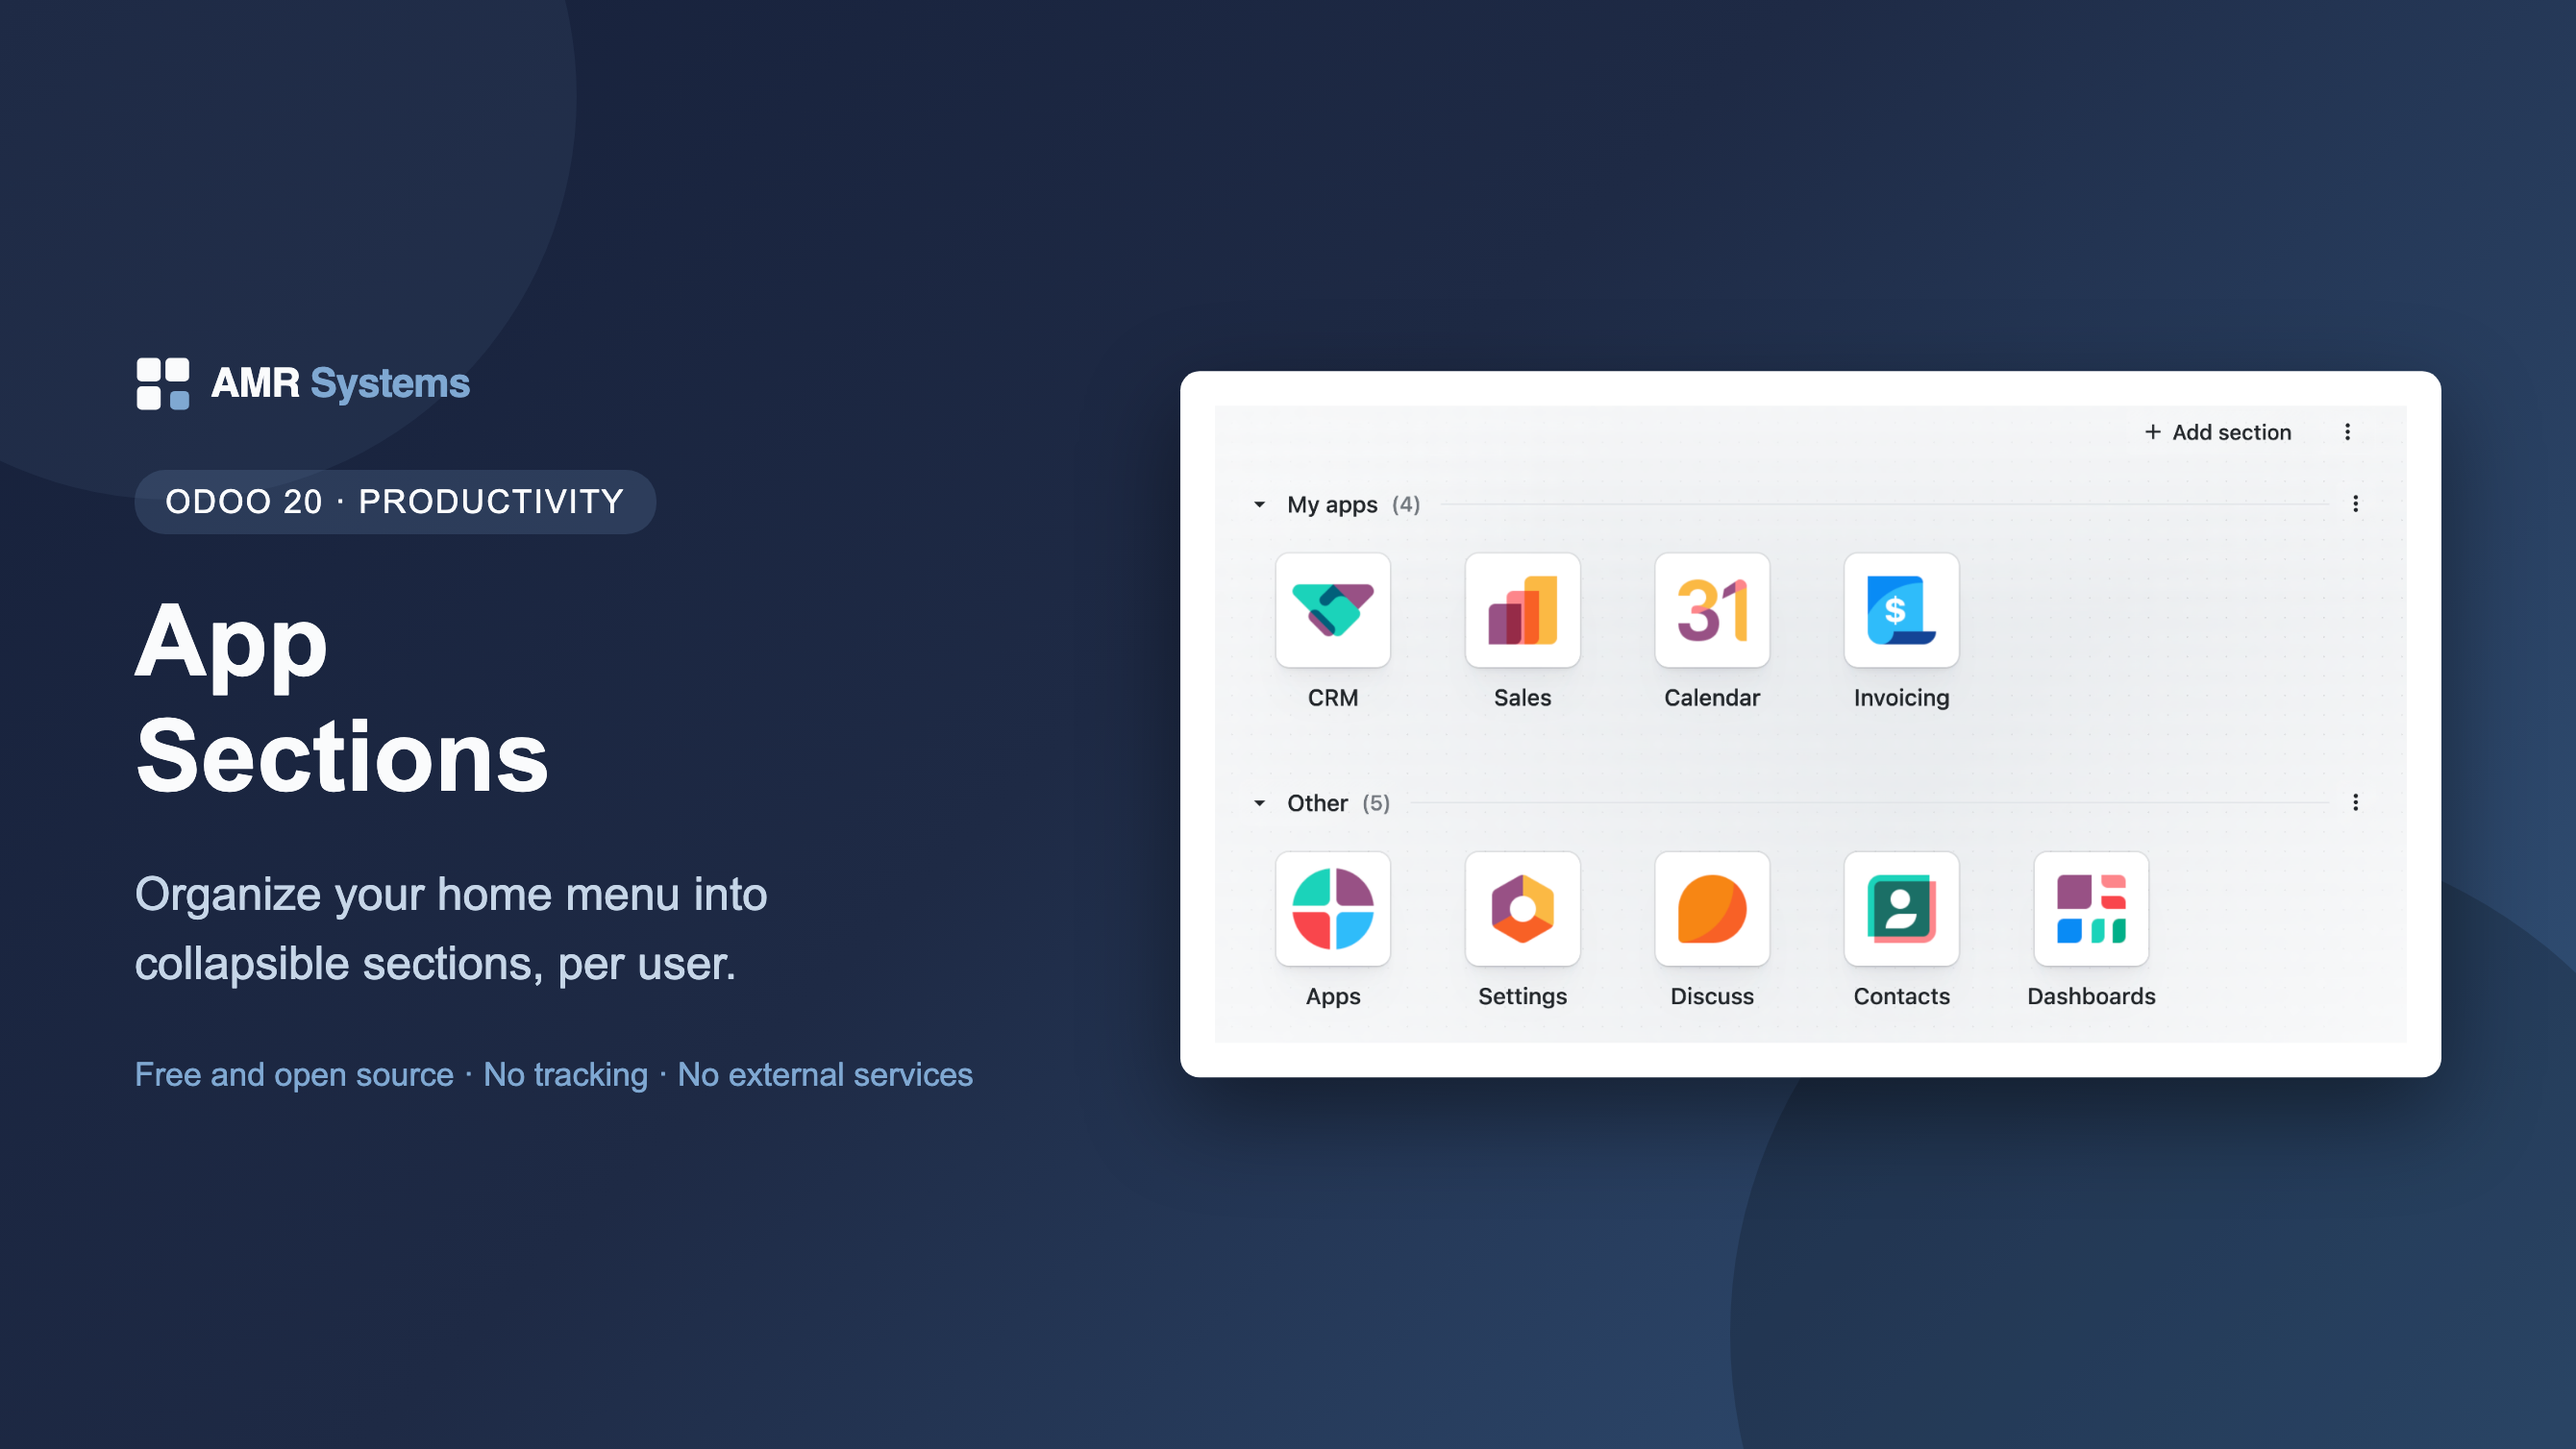
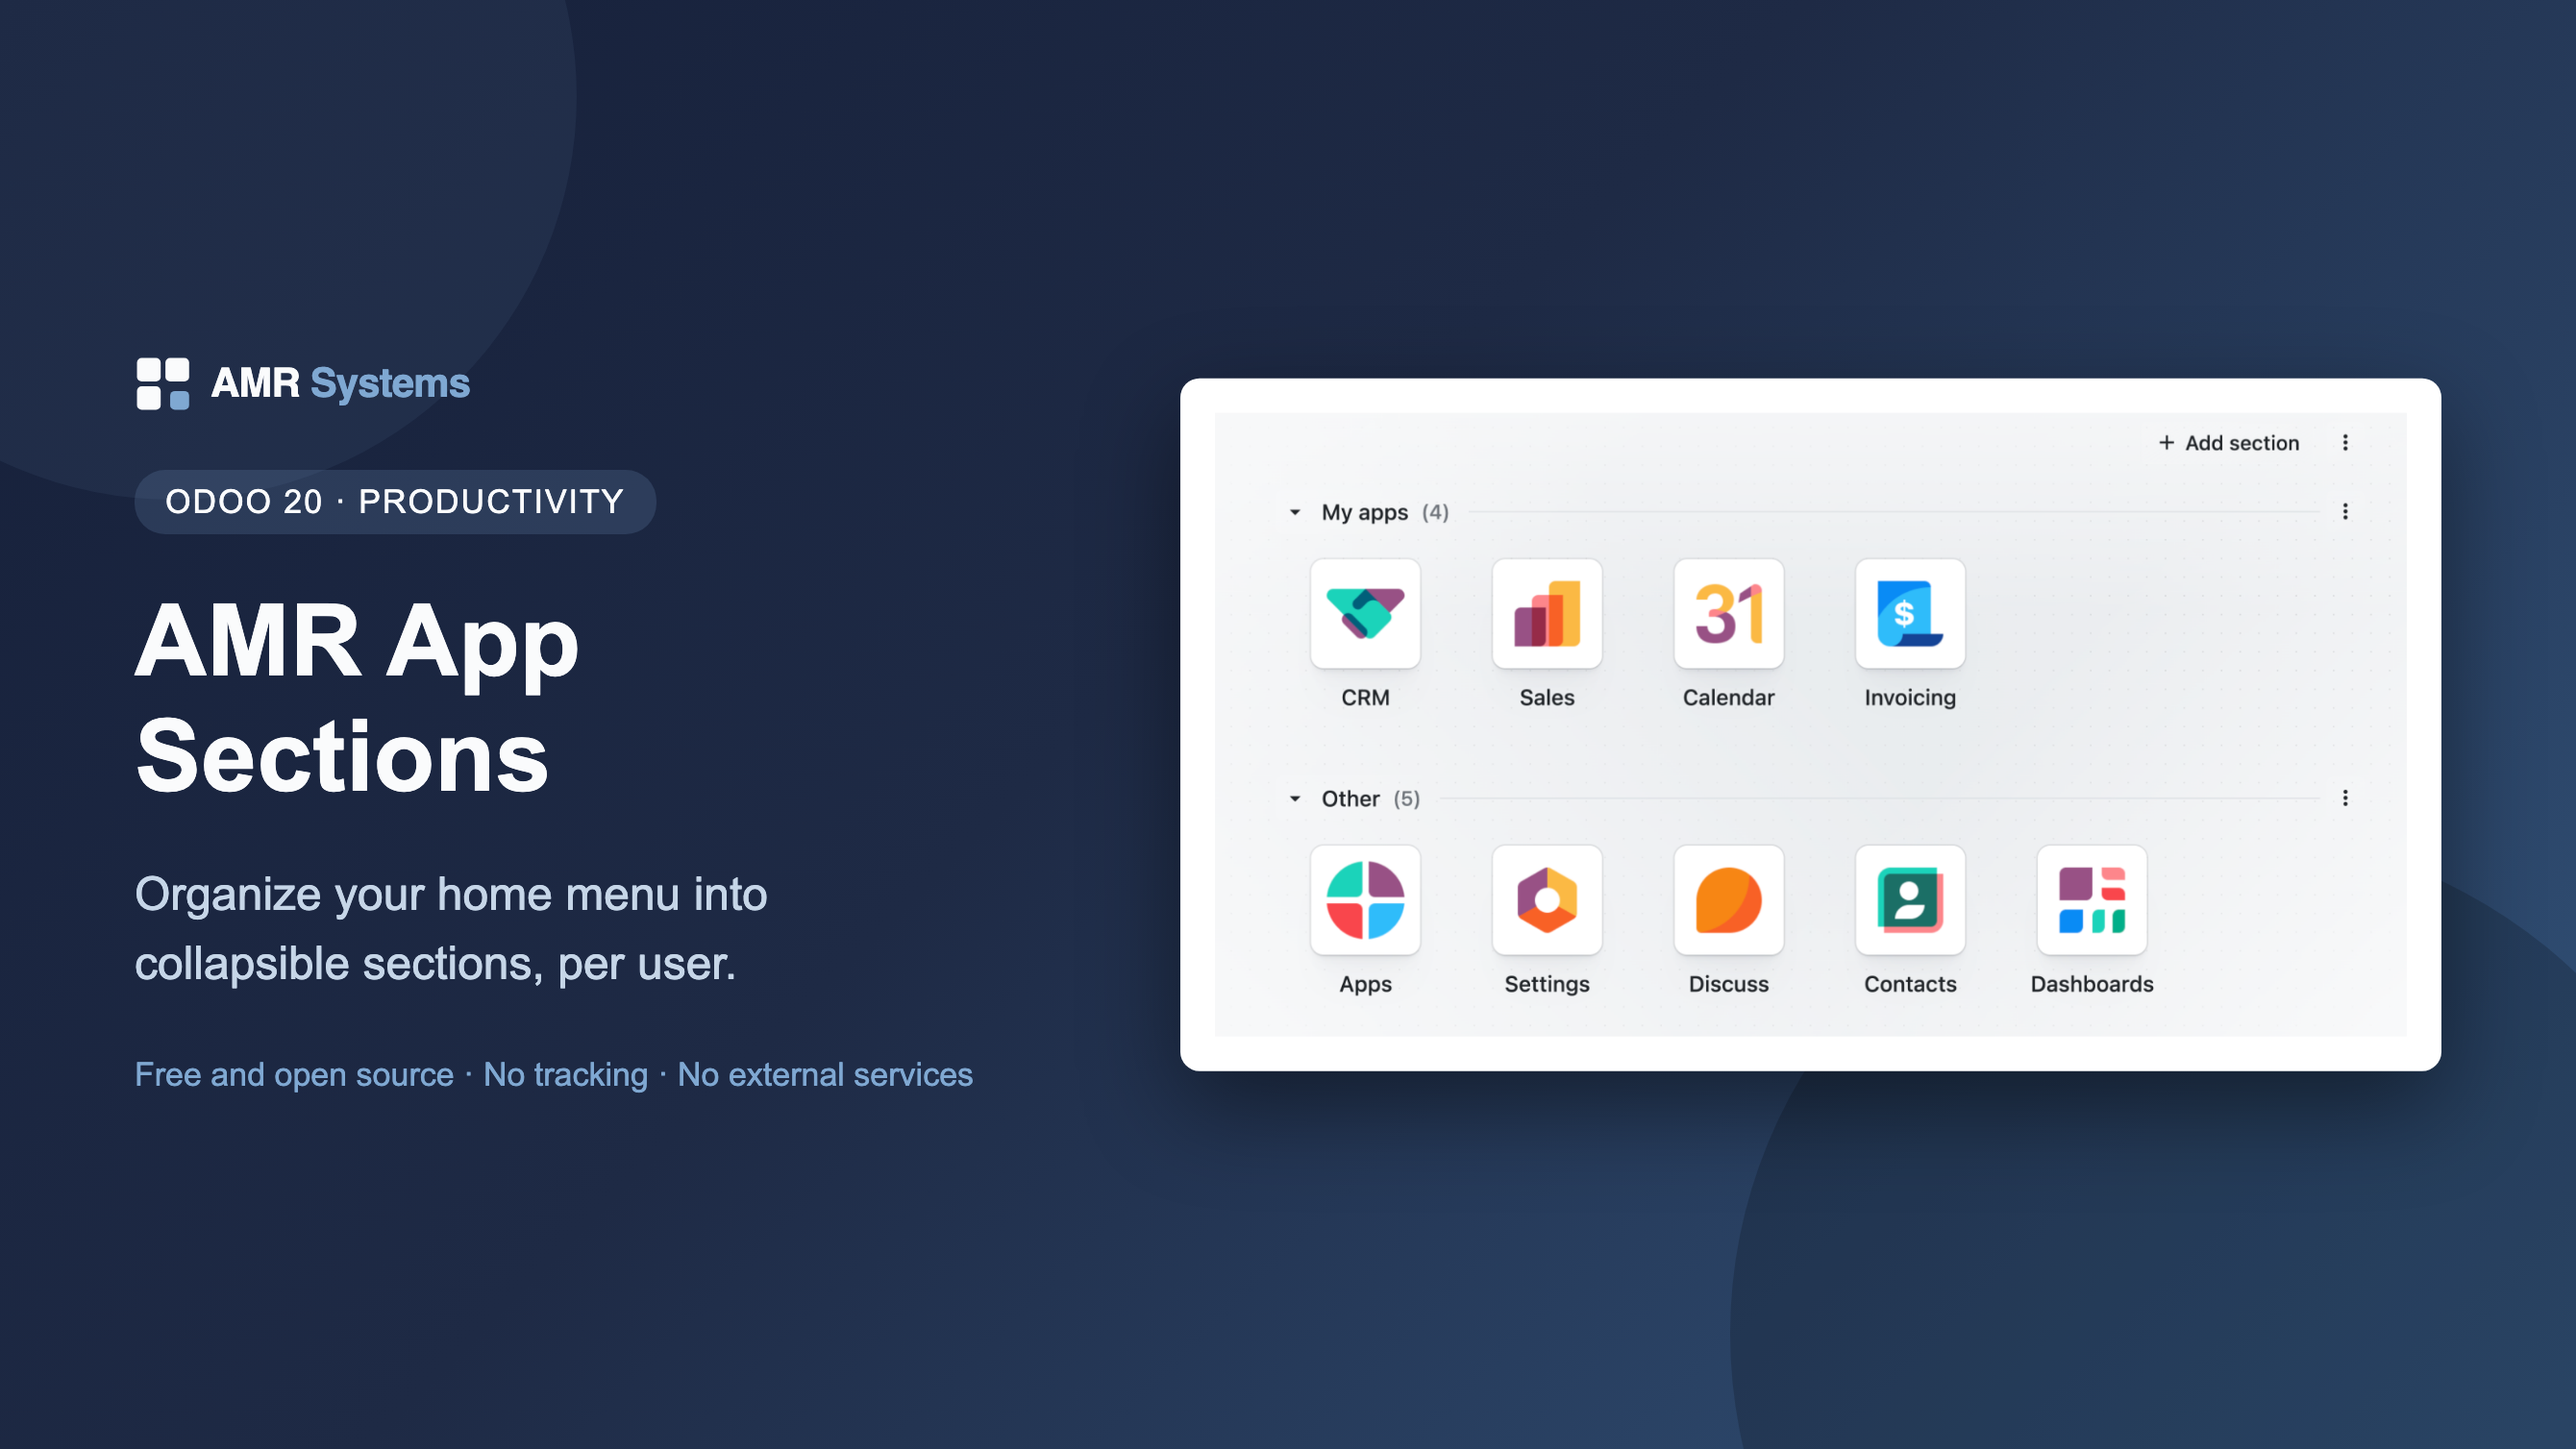
amr_app_sections: rename to AMR App Sections, clean up move screenshot
Company prefix in the visible app name (manifest, About dialog, store page,
translations) and a regenerated cover. The Move to screenshot is retaken so
the menu sits naturally under the tile button instead of cutting tiles off.

diff --git a/amr_app_sections/static/description/index.html b/amr_app_sections/static/description/index.html
@@ -1,7 +1,7 @@
 <section style="max-width: 860px; margin: 0 auto; font-family: Arial, Helvetica, sans-serif; color: #333;">
 
     <div style="text-align: center; padding: 24px 16px 8px 16px;">
-        <h1 style="margin: 0 0 8px 0; font-size: 32px;">App Sections</h1>
+        <h1 style="margin: 0 0 8px 0; font-size: 32px;">AMR App Sections</h1>
         <p style="margin: 0; font-size: 18px; color: #777;">
             Organize your home menu into collapsible sections.
         </p>
@@ -10,7 +10,7 @@
     <div style="padding: 16px 16px 24px 16px;">
         <p style="font-size: 15px; line-height: 1.6; margin: 0;">
             When many apps are installed, the home menu becomes one long wall of icons.
-            App Sections lets every user group those icons into named, collapsible
+            AMR App Sections lets every user group those icons into named, collapsible
             sections: keep daily apps on top, tuck the rest away, and find everything
             faster. It changes presentation only, never permissions, and each user has
             their own layout.

diff --git a/amr_app_sections/__manifest__.py b/amr_app_sections/__manifest__.py
@@ -1,10 +1,10 @@
 # Part of AMR App Sections. See LICENSE file for full copyright and licensing details.
 {
-    'name': 'App Sections',
+    'name': 'AMR App Sections',
     'summary': 'Organize Odoo apps into collapsible sections',
     'description': """
-App Sections
-============
+AMR App Sections
+================
 Organize application tiles on the home menu into custom, collapsible
 sections. Drag and drop apps, rearrange sections, and keep rarely used
 applications out of sight without changing permissions. Each user has

diff --git a/amr_app_sections/README.md b/amr_app_sections/README.md
@@ -1,4 +1,4 @@
-# App Sections
+# AMR App Sections
 
 Organize your Odoo home menu into collapsible sections.
 
@@ -9,7 +9,7 @@ Organize your Odoo home menu into collapsible sections.
 
 ## What it does
 
-The home menu shows every installed app as one long grid. App Sections lets
+The home menu shows every installed app as one long grid. AMR App Sections lets
 each user group those tiles into named, collapsible sections:
 
 - Create any number of sections and rename them at any time.
